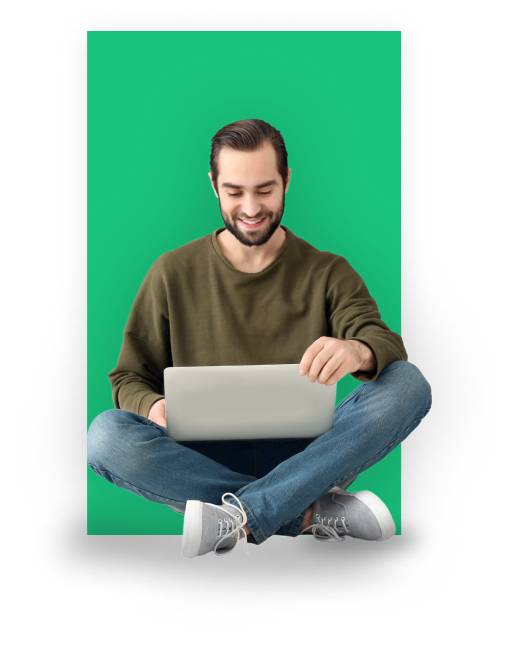
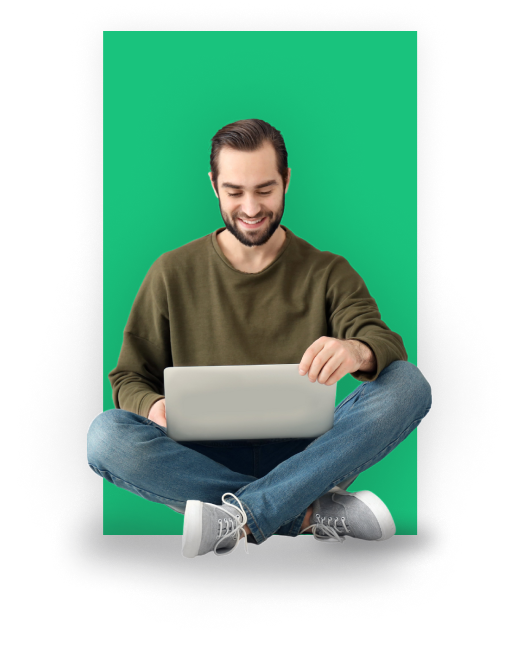
Não me recordo

diff --git a/index.html b/index.html
@@ -134,7 +134,7 @@
             </div>
 
             <div class="col-4 service-img">
-                <img src="./assets/img/services.png" alt="">
+                <img class="img-fluid" src="./assets/img/services.png" alt="">
                 <button class="btn"><a href="">Preciso da Qantic <img src="./assets/img/arrow_forward.svg" alt=""></a></button>
             </div>
 

diff --git a/assets/css/style.css b/assets/css/style.css
@@ -163,14 +163,13 @@ body{
     margin-block: 16px;
 }
 
-#services .lb{
-    margin-top: 110px;
-}
-#services .rb{
-    margin-top: 110px;
-}
-.service-img img {
+#services .lb,
+#services.rb {
     
+}
+
+.service-img img {
+
 }
 
 /* abaut  */
